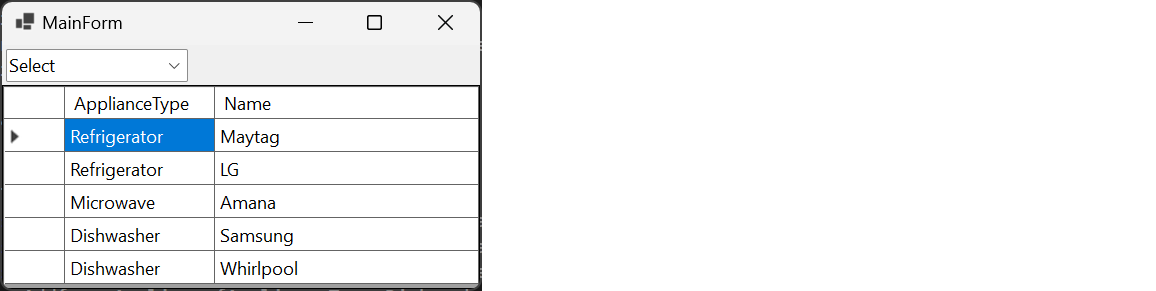
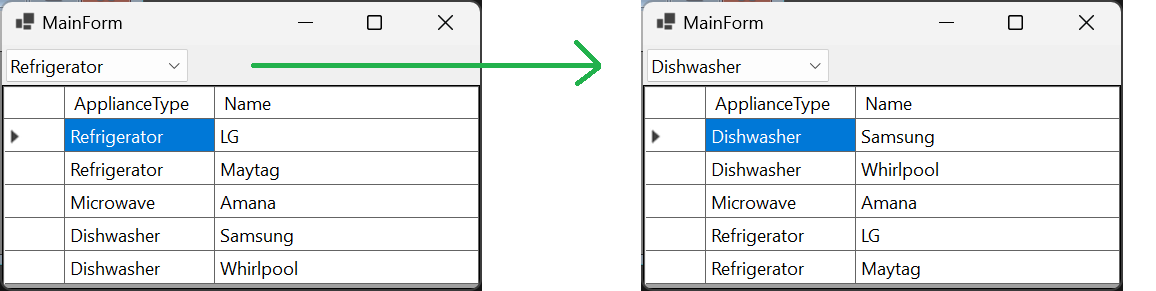
https://stackoverflow.com/a/74878037/5438626

diff --git a/datagrid-view-sort/MainForm.cs b/datagrid-view-sort/MainForm.cs
@@ -11,7 +11,7 @@ namespace datagrid_view_sort
         {
             base.OnLoad(e);
             // Populate the combo box
-            comboBoxSearch.Items.AddRange(Enum.GetValues(typeof(ApplianceType)).Cast<object>().ToArray());
+            object[] values = Enum.GetValues(typeof(ApplianceType)).Cast<object>().ToArray();
             dtgridappliance.DataSource = Appliances;
             dtgridappliance.AllowUserToAddRows = false;
 
@@ -25,7 +25,9 @@ namespace datagrid_view_sort
             // Format columns
             dtgridappliance.Columns[nameof(Appliance.Name)].AutoSizeMode = DataGridViewAutoSizeColumnMode.Fill;
 
-            // Add a handler for when the combo box xhanges
+            // Add a handler for when the combo box changes
+            comboBoxSearch.Items.AddRange(values);
+            comboBoxSearch.SelectedIndex = (int)ApplianceType.Refrigerator;
             comboBoxSearch.SelectionChangeCommitted += onSearchByApplianceType;
         }
 

diff --git a/datagrid-view-sort/MainForm.Designer.cs b/datagrid-view-sort/MainForm.Designer.cs
@@ -43,14 +43,14 @@
             this.dtgridappliance.Size = new System.Drawing.Size(478, 204);
             this.dtgridappliance.TabIndex = 0;
             // 
-            // comboBox1
+            // comboBoxSearch
             // 
+            this.comboBoxSearch.DropDownStyle = System.Windows.Forms.ComboBoxStyle.DropDownList;
             this.comboBoxSearch.FormattingEnabled = true;
             this.comboBoxSearch.Location = new System.Drawing.Point(4, 4);
-            this.comboBoxSearch.Name = "comboBox1";
+            this.comboBoxSearch.Name = "comboBoxSearch";
             this.comboBoxSearch.Size = new System.Drawing.Size(182, 33);
             this.comboBoxSearch.TabIndex = 1;
-            this.comboBoxSearch.Text = "Select";
             // 
             // MainForm
             // 

diff --git a/README.md b/README.md
@@ -74,4 +74,4 @@ Where the class representing a Row of data looks something like this:
         }
     }
 
-Hope this helps get you closer to your intended outcome.
+This is "just one way" to do it, but I [tested](https://github.com/IVSoftware/datagrid-view-sort.git) it and it works. Hope this helps get you closer to your intended outcome.
